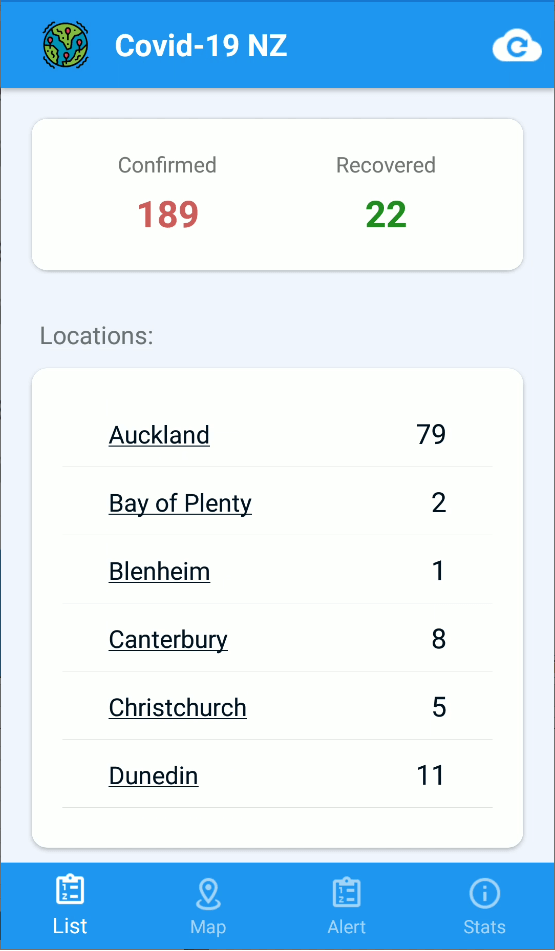
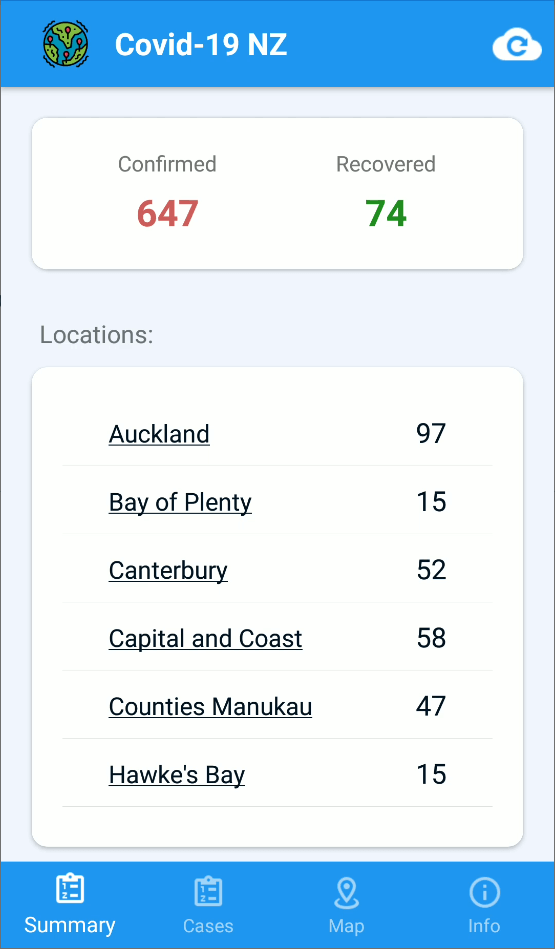
:pencil: Readme updated. :bookmark: v1.0.8. Live data version back!

diff --git a/README.md b/README.md
@@ -18,9 +18,9 @@ APK access from [VS App Center](https://tinyurl.com/covid19nzapp), or this url: 
 
 ## Screenshots:
 
-|                     Locations                     |                       Cases                       |                        Map                        |
-| :-----------------------------------------------: | :-----------------------------------------------: | :-----------------------------------------------: |
-| <img src=".\assets\screenshot1.png" width="200" > | <img src=".\assets\screenshot2.png" width="200" > | <img src=".\assets\screenshot3.png" width="200" > |
+|                     Locations                     |                    Cases (todo)                    |                        Map                        |
+| :-----------------------------------------------: | :------------------------------------------------: | :-----------------------------------------------: |
+| <img src=".\assets\screenshot1.png" width="200" > | <img src=".\assets\CasesDesign2.png" width="240" > | <img src=".\assets\screenshot3.png" width="200" > |
 
 
 
@@ -33,11 +33,11 @@ APK access from [VS App Center](https://tinyurl.com/covid19nzapp), or this url: 
 
 ~~[Google map for android](https://developers.google.com/maps/documentation/android-sdk/intro)~~
 
+[Newtonsoft.Json](https://github.com/JamesNK/Newtonsoft.Json)
+
 [Azure pipeline](https://dev.azure.com/)
 
 [VS App Center](https://appcenter.ms/)
-
-[Newtonsoft.Json](https://github.com/JamesNK/Newtonsoft.Json)
 
 
 
@@ -51,13 +51,23 @@ APK access from [VS App Center](https://tinyurl.com/covid19nzapp), or this url: 
 * Check alert level and other links.
 * ~~Check official website.~~ (added in map page)
 
+
+
 ### TODO :
+
+#### Refresh on March 31th:
+
+- [ ] New cases page UI
+- [ ] Header detail UI
+- [ ] Info page UI
+- [ ] cluster information
+- [ ] icons not ready
 
 #### Refresh on March 27th:
 
-- [ ] api updated based on the new formatting from MOH
-- [ ] Geo location removed from api (no cities from MOH)
-- [ ] new header information api pending
+- [x] api updated based on the new formatting from MOH
+- [x] Geo location removed from api (no cities from MOH)
+- [x] new header information api pending
 - [x] build a pipeline for the project releases
 
 #### General (March 25th):
@@ -69,7 +79,7 @@ APK access from [VS App Center](https://tinyurl.com/covid19nzapp), or this url: 
 
 #### List page
 
-- [ ] Header api implementation
+- [x] Header api implementation
 - [ ] detail info for Header
 - [ ] refresh time stated
 - [ ] Filters and sorters for the listing
@@ -101,13 +111,19 @@ APK access from [VS App Center](https://tinyurl.com/covid19nzapp), or this url: 
 
 	v1.0.4	CasePage UI updated (check screenshot2 above). Menu changed to "List", "Map", "MOH" and "Info"
 
-	v1.0.5	(**STATIC** version) Pipeline set up. This version displays **STATIC** data on March 25th before API updated.
+	v1.0.5	(STATIC version) Pipeline set up. This version displays **STATIC** data on March 25th before API updated.
 
-	v1.0.6	(**STATIC** version) Loading data at beginning improve in-app experience. Splash screen added. Fixed map view init bug.
+	v1.0.6	(STATIC version) Loading data at beginning improve in-app experience. Splash screen added. Fixed map view init bug.
 
-	v1.0.7	Files renamed. Updated StatsPage with image from MOH. Cases page added.
+	v1.0.7	(STATIC version) Files renamed. Updated StatsPage with image from MOH. Cases page added.
 
-	v1.0.8	:construction:
+	v1.0.8	(**LIVE** version) API updated. Readme and screenshots updated.
+
+	v1.0.9	:construction:
+
+
+
+
 
 
 
